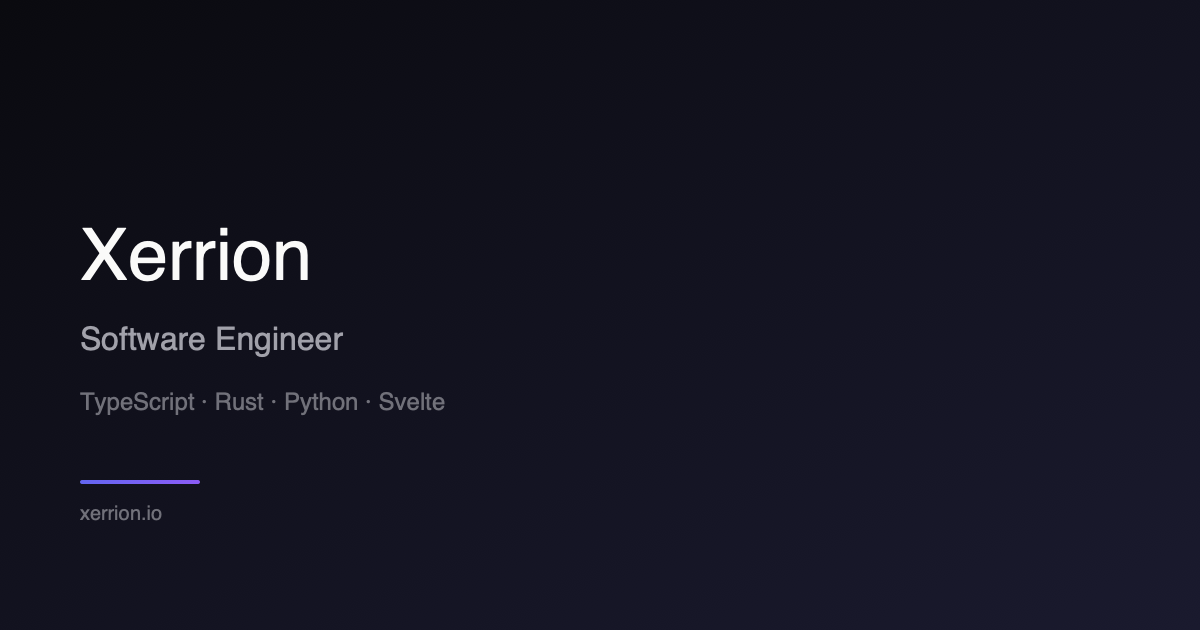
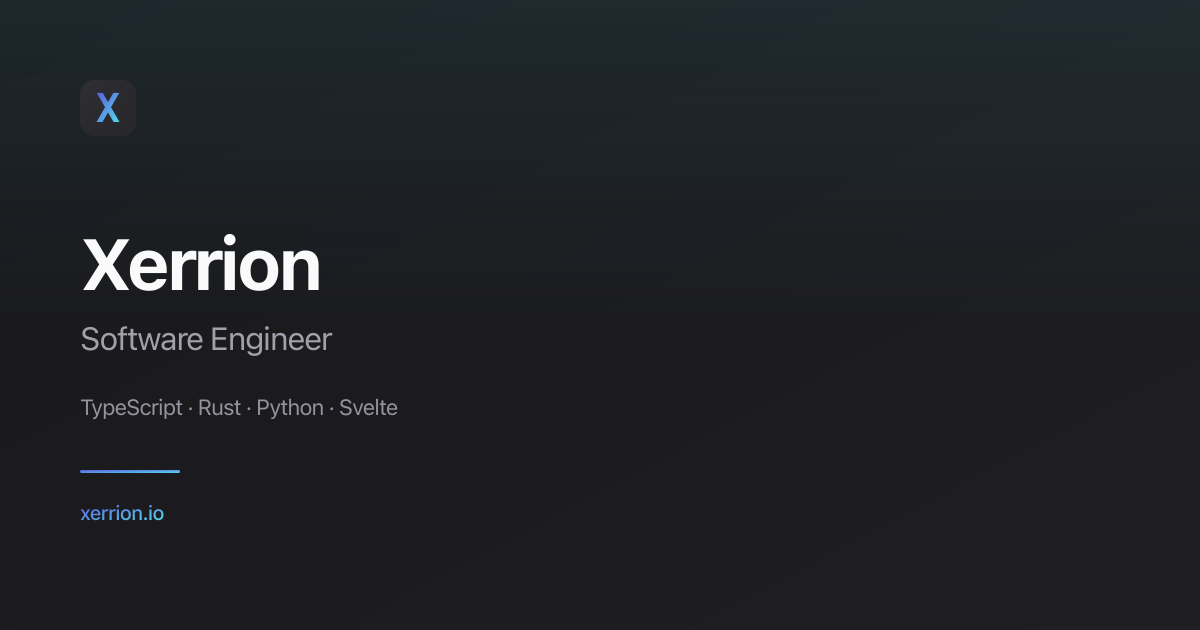
refactor: convert color system to oklch and update accent color (#30)
* refactor: convert entire color system to oklch and replace amber accent with cyan

Migrate all CSS custom properties in theme.css from hex to oklch() for
perceptually uniform color manipulation. Replace amber accent (#f59e0b)
with a new cyan accent (oklch 0.8155 0.1164 209.92). Convert remaining
hardcoded rgba values referencing theme colors to color-mix(in oklch, ...)
across upload page, dashboard icons, and category filter components.

* refactor: redesign favicon and OG image with new color palette

Replace blue-cyan favicon gradient with dark background + primary-to-cyan
gradient X lettermark. Redesign OG card with dark theme, logo mark,
primary-to-cyan accent line, and cyan URL to match the new oklch color
system. Regenerate og-image.png from updated SVG.

* fix: lighten favicon background to distinguish from pure black

Use bg-tertiary (#27272a/#2e2e33) instead of bg/bg-secondary so the
dark rounded square is visibly distinct from black at small sizes.

* fix: increase favicon X letter size for better visibility

* fix: enlarge favicon X, refine OG image logo mark and gradient URL

Increase favicon X to 90px for maximum visibility. OG image logo mark
uses gradient background fill with larger X, URL uses accent gradient
instead of solid cyan, and accent gradient direction changed to diagonal.

diff --git a/src/lib/styles/theme.css b/src/lib/styles/theme.css
@@ -1,26 +1,26 @@
 /* Theme CSS Variables */
 :root {
-	/* Color Palette - Warmer, more personal */
-	--color-primary: #5b5ee0;
-	--color-primary-hover: #4f46e5;
-	--color-primary-light: #818cf8;
+	/* Color Palette */
+	--color-primary: oklch(0.5532 0.1936 277.02);
+	--color-primary-hover: oklch(0.5106 0.2301 276.97);
+	--color-primary-light: oklch(0.6801 0.1584 276.94);
 	
-	--color-accent: #f59e0b;
-	--color-accent-hover: #d97706;
+	--color-accent: oklch(0.8155 0.1164 209.92);
+	--color-accent-hover: oklch(0.72 0.1164 209.92);
 	
-	/* Light Theme - Warm white */
-	--color-bg: #fefdfb;
-	--color-bg-secondary: #faf8f5;
-	--color-bg-tertiary: #f5f1eb;
-	--color-surface: #ffffff;
-	--color-surface-hover: #faf8f5;
+	/* Light Theme */
+	--color-bg: oklch(0.9943 0.0028 84.60);
+	--color-bg-secondary: oklch(0.9798 0.0044 78.21);
+	--color-bg-tertiary: oklch(0.9596 0.0090 78.24);
+	--color-surface: oklch(1.0000 0.0000 0);
+	--color-surface-hover: oklch(0.9798 0.0044 78.21);
 	
-	--color-text: #1f1f1f;
-	--color-text-secondary: #525252;
-	--color-text-muted: #686c76;
+	--color-text: oklch(0.2393 0.0000 0);
+	--color-text-secondary: oklch(0.4386 0.0000 0);
+	--color-text-muted: oklch(0.5313 0.0164 268.35);
 	
-	--color-border: #e5e2dc;
-	--color-border-hover: #d1cdc5;
+	--color-border: oklch(0.9135 0.0086 84.59);
+	--color-border-hover: oklch(0.8493 0.0117 84.59);
 	
 	/* Shadows - Softer */
 	--shadow-sm: 0 1px 2px 0 rgb(0 0 0 / 0.04);
@@ -73,23 +73,23 @@
 	--header-height: 4rem;
 }
 
-/* Dark Theme - Cozy dark */
+/* Dark Theme */
 [data-theme="dark"] {
-	--color-primary: #818cf8;
-	--color-primary-hover: #6366f1;
+	--color-primary: oklch(0.6801 0.1584 276.94);
+	--color-primary-hover: oklch(0.5854 0.2041 277.12);
 
-	--color-bg: #18181b;
-	--color-bg-secondary: #1f1f23;
-	--color-bg-tertiary: #27272a;
-	--color-surface: #1f1f23;
-	--color-surface-hover: #27272a;
+	--color-bg: oklch(0.2103 0.0059 285.82);
+	--color-bg-secondary: oklch(0.2410 0.0076 285.76);
+	--color-bg-tertiary: oklch(0.2739 0.0055 285.94);
+	--color-surface: oklch(0.2410 0.0076 285.76);
+	--color-surface-hover: oklch(0.2739 0.0055 285.94);
 	
-	--color-text: #fafafa;
-	--color-text-secondary: #a1a1aa;
-	--color-text-muted: #9494a0;
+	--color-text: oklch(0.9851 0.0000 0);
+	--color-text-secondary: oklch(0.7118 0.0130 285.96);
+	--color-text-muted: oklch(0.6704 0.0176 285.85);
 	
-	--color-border: #2e2e33;
-	--color-border-hover: #3f3f46;
+	--color-border: oklch(0.3032 0.0089 285.79);
+	--color-border-hover: oklch(0.3703 0.0119 285.75);
 	
 	--shadow-sm: 0 1px 2px 0 rgb(0 0 0 / 0.2);
 	--shadow-md: 0 4px 6px -1px rgb(0 0 0 / 0.3), 0 2px 4px -2px rgb(0 0 0 / 0.2);

diff --git a/src/routes/admin/+page.svelte b/src/routes/admin/+page.svelte
@@ -179,22 +179,22 @@
 	}
 
 	.action-icon.upload {
-		background: rgba(99, 102, 241, 0.1);
+		background: color-mix(in oklch, var(--color-primary) 10%, transparent);
 		color: var(--color-primary);
 	}
 
 	.action-icon.gallery {
-		background: rgba(245, 158, 11, 0.1);
+		background: color-mix(in oklch, var(--color-accent) 15%, transparent);
 		color: var(--color-accent);
 	}
 
 	.action-icon.categories {
-		background: rgba(16, 185, 129, 0.1);
-		color: #10b981;
+		background: color-mix(in oklch, oklch(0.6957 0.1522 163.29) 10%, transparent);
+		color: oklch(0.6957 0.1522 163.29);
 	}
 
 	.action-icon.site {
-		background: rgba(99, 102, 241, 0.1);
+		background: color-mix(in oklch, var(--color-primary) 10%, transparent);
 		color: var(--color-primary-light);
 	}
 

diff --git a/src/routes/admin/gallery/upload/+page.svelte b/src/routes/admin/gallery/upload/+page.svelte
@@ -554,7 +554,7 @@
 
   .drop-zone.active {
     border-color: var(--color-primary);
-    background: rgba(91, 94, 224, 0.05);
+    background: color-mix(in oklch, var(--color-primary) 5%, transparent);
     border-style: solid;
   }
 
@@ -690,7 +690,7 @@
   .heic-badge {
     display: inline-block;
     padding: 1px 5px;
-    background: rgba(91, 94, 224, 0.1);
+    background: color-mix(in oklch, var(--color-primary) 10%, transparent);
     color: var(--color-primary);
     font-size: 10px;
     font-weight: 600;

diff --git a/src/lib/components/gallery/CategoryFilter.svelte b/src/lib/components/gallery/CategoryFilter.svelte
@@ -76,11 +76,11 @@
 		background-color: var(--color-primary);
 		border-color: var(--color-primary);
 		color: white;
-		box-shadow: 0 2px 8px rgba(91, 94, 224, 0.3);
+		box-shadow: 0 2px 8px color-mix(in oklch, var(--color-primary) 30%, transparent);
 	}
 
 	:global([data-theme="dark"]) .filter-btn.active {
-		box-shadow: 0 2px 8px rgba(129, 140, 248, 0.25);
+		box-shadow: 0 2px 8px color-mix(in oklch, var(--color-primary-light) 25%, transparent);
 	}
 
 	.filter-count {
